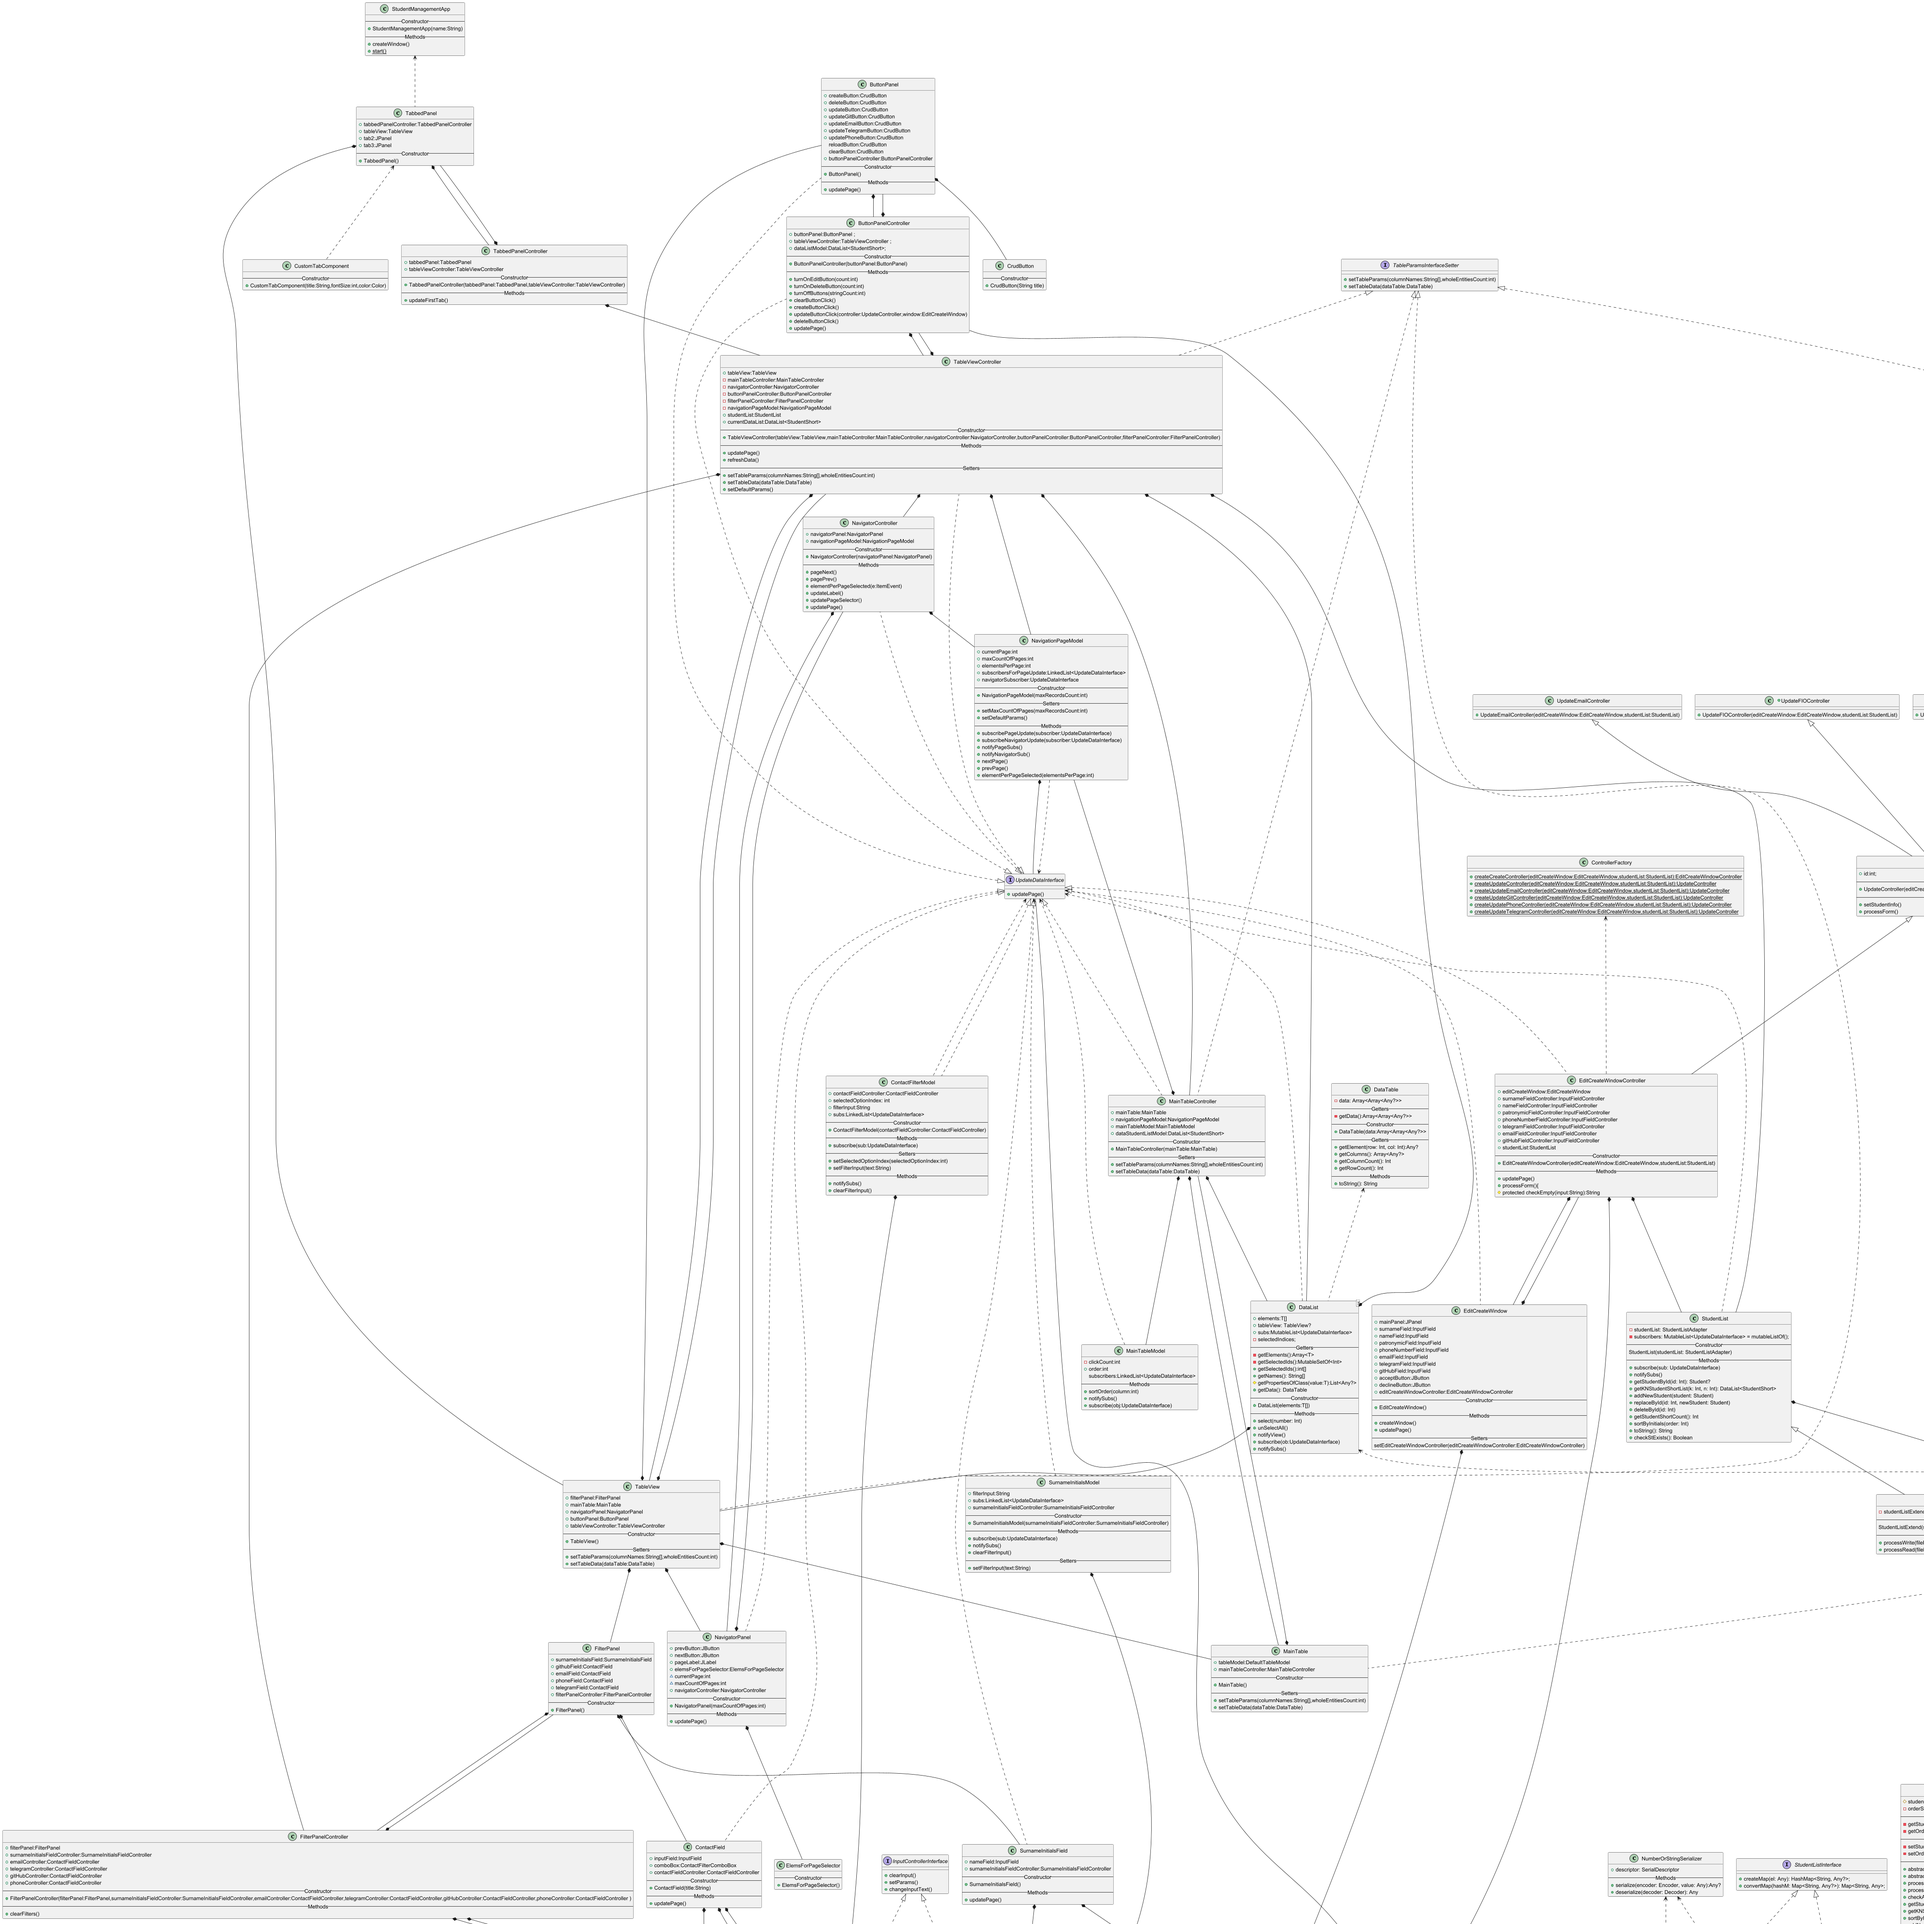
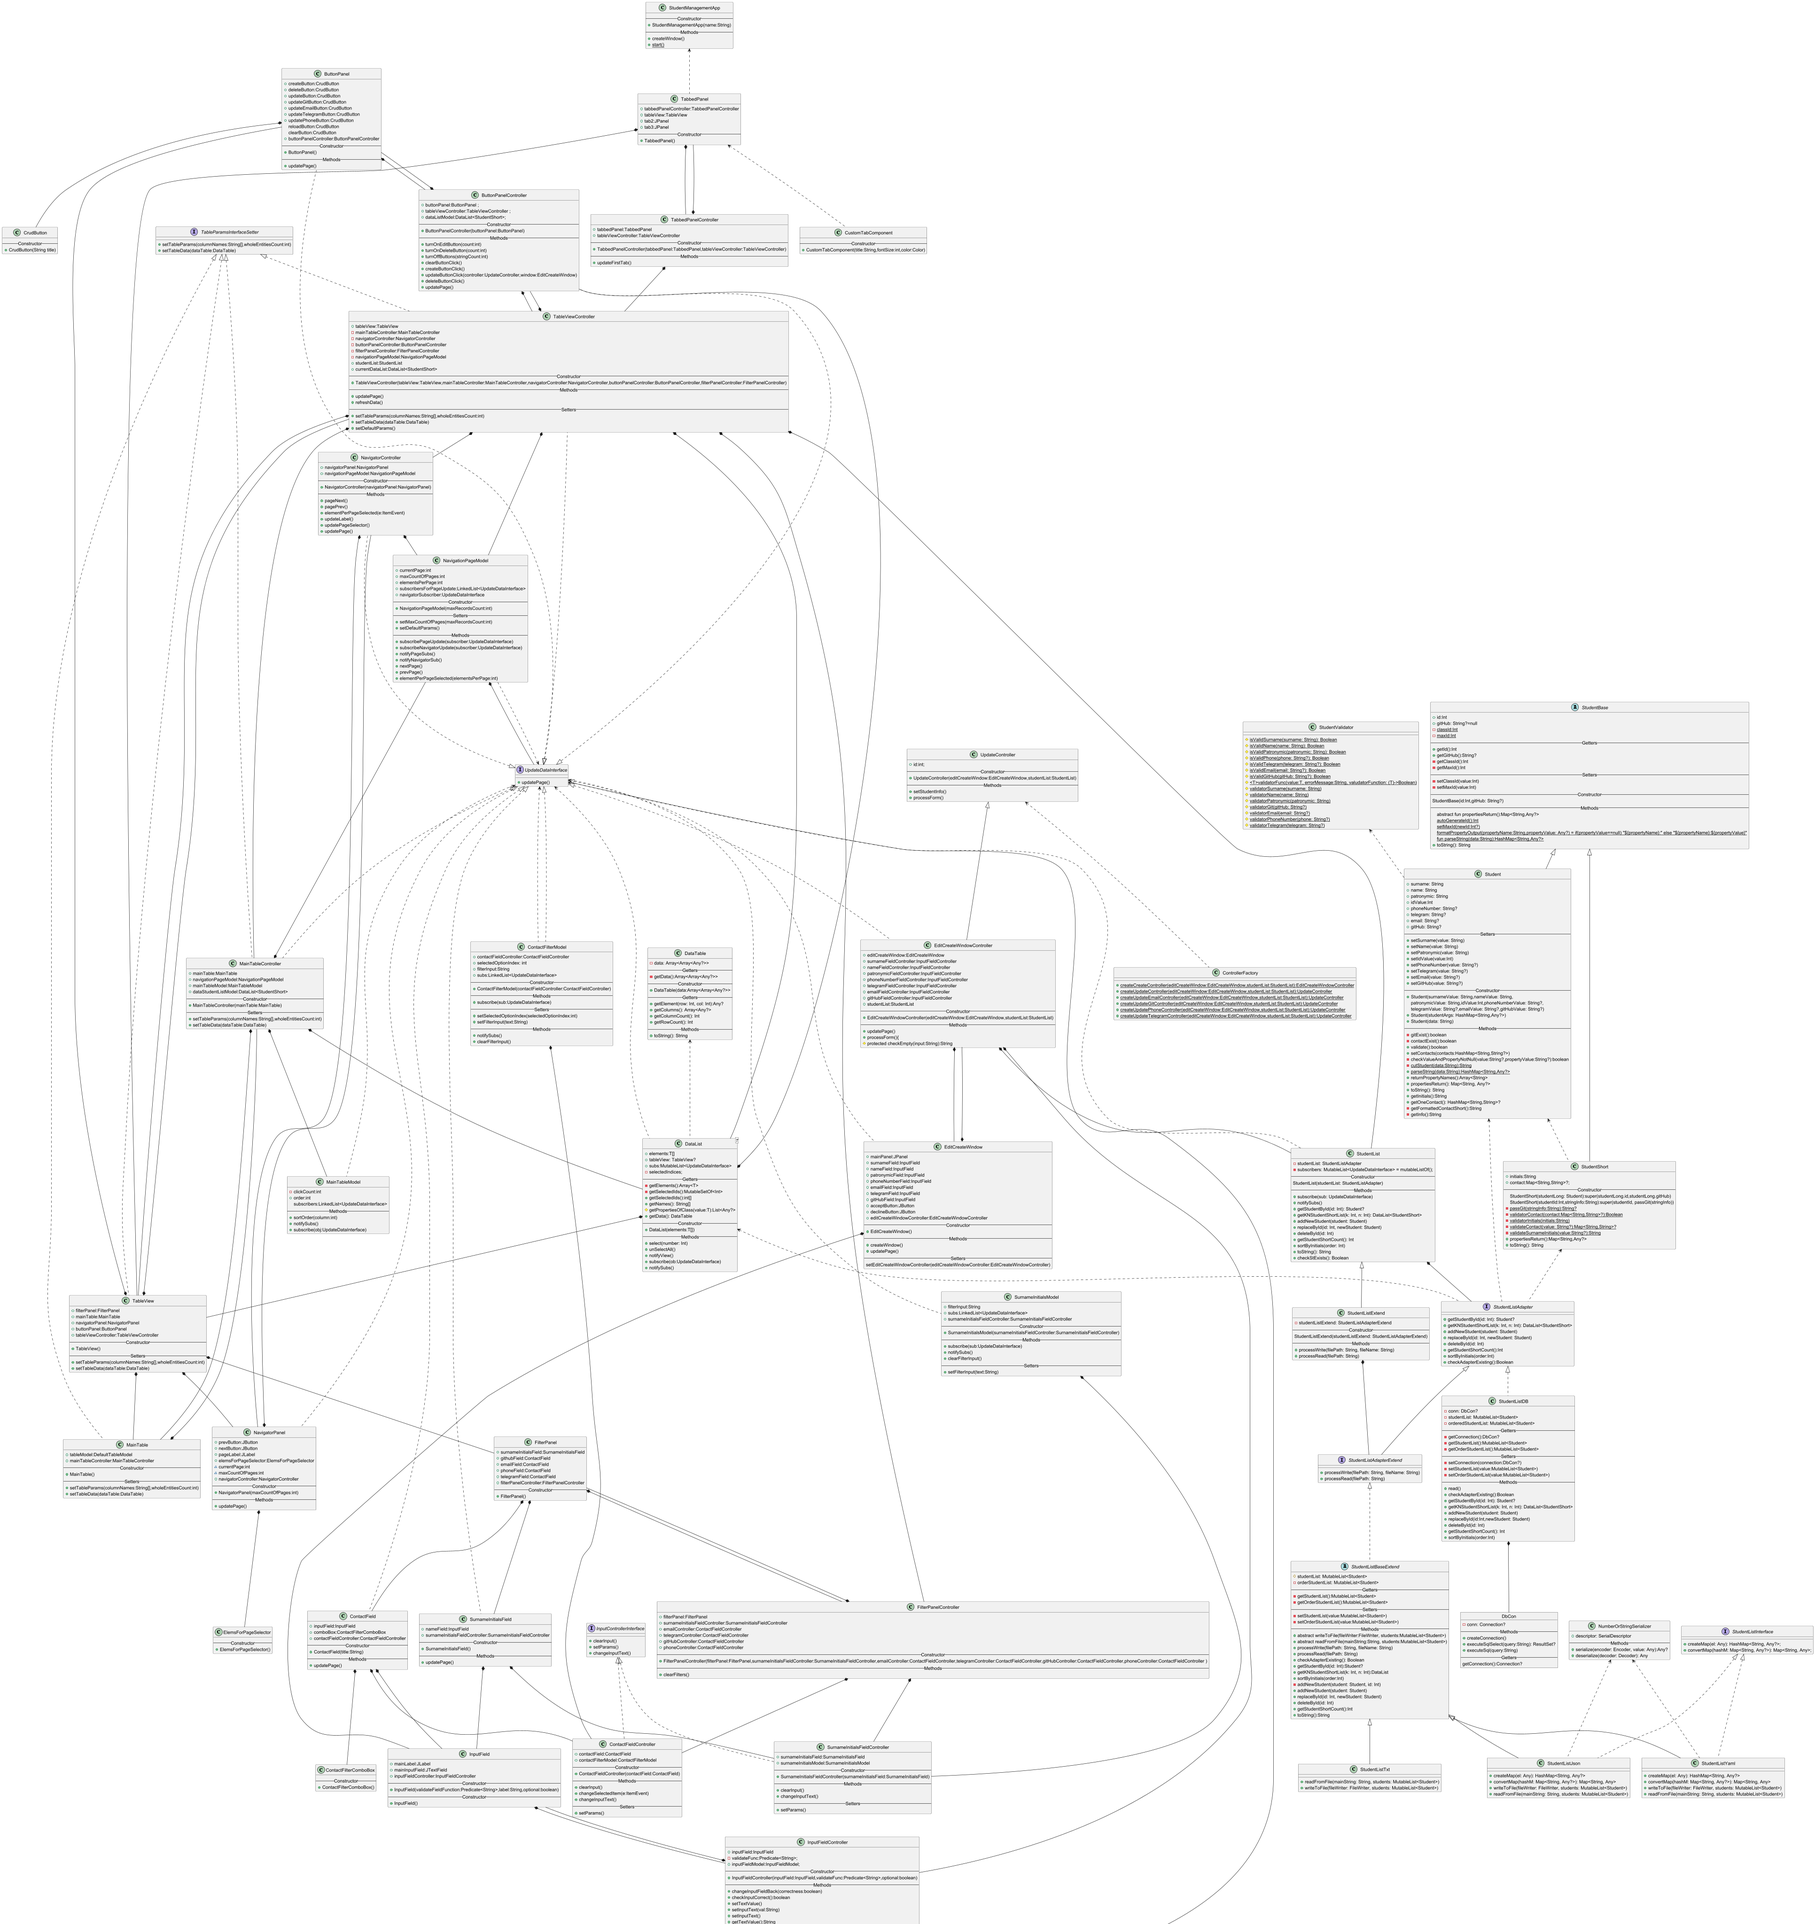
Lab 8 Поменяли фабрику окна редактирования записи

diff --git a/lab3/untitled/src/main/java/EditCreateForm/Factory/ControllerFactory.java b/lab3/untitled/src/main/java/EditCreateForm/Factory/ControllerFactory.java
@@ -8,19 +8,52 @@ public class ControllerFactory {
     public static EditCreateWindowController createCreateController(EditCreateWindow editCreateWindow, StudentList studentList){
         return new EditCreateWindowController(editCreateWindow,studentList);
     }
-    public static UpdateController createUpdateController(EditCreateWindow editCreateWindow, StudentList studentList){
-        return new UpdateFIOController(editCreateWindow,studentList);
+    public static UpdateController createUpdateFIOController(EditCreateWindow editCreateWindow, StudentList studentList){
+        UpdateController updateController = new UpdateController(editCreateWindow,studentList);
+        updateController.gitHubFieldController.changeEditable(false);
+        updateController.phoneNumberFieldController.changeEditable(false);
+        updateController.emailFieldController.changeEditable(false);
+        updateController.telegramFieldController.changeEditable(false);
+        return updateController;
     }
     public static UpdateController createUpdateEmailController(EditCreateWindow editCreateWindow, StudentList studentList){
-        return new UpdateEmailController(editCreateWindow,studentList);
+        UpdateController updateController = new UpdateController(editCreateWindow,studentList);
+        updateController.gitHubFieldController.changeEditable(false);
+        updateController.phoneNumberFieldController.changeEditable(false);
+        updateController.surnameFieldController.changeEditable(false);
+        updateController.nameFieldController.changeEditable(false);
+        updateController.patronymicFieldController.changeEditable(false);
+        updateController.telegramFieldController.changeEditable(false);
+        return updateController;
     }
     public static UpdateController createUpdateGitController(EditCreateWindow editCreateWindow, StudentList studentList){
-        return new UpdateGitController(editCreateWindow,studentList);
+        UpdateController updateController = new UpdateController(editCreateWindow,studentList);
+        updateController.surnameFieldController.changeEditable(false);
+        updateController.nameFieldController.changeEditable(false);
+        updateController.patronymicFieldController.changeEditable(false);
+        updateController.phoneNumberFieldController.changeEditable(false);
+        updateController.emailFieldController.changeEditable(false);
+        updateController.telegramFieldController.changeEditable(false);
+        return updateController;
     }
     public static UpdateController createUpdatePhoneController(EditCreateWindow editCreateWindow, StudentList studentList){
-        return new UpdatePhoneController(editCreateWindow,studentList);
+        UpdateController updateController = new UpdateController(editCreateWindow,studentList);
+        updateController.gitHubFieldController.changeEditable(false);
+        updateController.surnameFieldController.changeEditable(false);
+        updateController.nameFieldController.changeEditable(false);
+        updateController.patronymicFieldController.changeEditable(false);
+        updateController.emailFieldController.changeEditable(false);
+        updateController.telegramFieldController.changeEditable(false);
+        return updateController;
     }
     public static UpdateController createUpdateTelegramController(EditCreateWindow editCreateWindow, StudentList studentList){
-        return new UpdateTelegramController(editCreateWindow,studentList);
+        UpdateController updateController = new UpdateController(editCreateWindow,studentList);
+        updateController.gitHubFieldController.changeEditable(false);
+        updateController.phoneNumberFieldController.changeEditable(false);
+        updateController.emailFieldController.changeEditable(false);
+        updateController.surnameFieldController.changeEditable(false);
+        updateController.nameFieldController.changeEditable(false);
+        updateController.patronymicFieldController.changeEditable(false);
+        return updateController;
     }
 }

diff --git a/lab3/untitled/src/main/java/ButtonCRUDPanel/Controllers/ButtonPanelController.java b/lab3/untitled/src/main/java/ButtonCRUDPanel/Controllers/ButtonPanelController.java
@@ -2,21 +2,15 @@ package ButtonCRUDPanel.Controllers;
 
 import ButtonCRUDPanel.ButtonPanel;
 import DataListPack.DataList;
-import DataListPack.DataTable;
-import EditCreateForm.Controllers.EditCreateWindowController;
 import EditCreateForm.Controllers.UpdateController;
-import EditCreateForm.Controllers.UpdateFIOController;
 import EditCreateForm.EditCreateWindow;
 import EditCreateForm.Factory.ControllerFactory;
 import MainPack.UpdateDataInterface;
 import Student.StudentShort;
-import StudentList.StudentList;
 import TableGridPack.Controllers.TableViewController;
-import TableGridPack.Navigator.Models.NavigationPageModel;
 
 import java.awt.event.ActionEvent;
 import java.awt.event.ActionListener;
-import java.util.Arrays;
 import java.util.LinkedList;
 
 public class ButtonPanelController implements UpdateDataInterface {
@@ -41,7 +35,7 @@ public class ButtonPanelController implements UpdateDataInterface {
             @Override
             public void actionPerformed(ActionEvent e) {
                 EditCreateWindow window = new EditCreateWindow();
-                ButtonPanelController.this.updateButtonClick(ControllerFactory.createUpdateController(window,ButtonPanelController.this.tableViewController.studentList),window);
+                ButtonPanelController.this.updateButtonClick(ControllerFactory.createUpdateFIOController(window,ButtonPanelController.this.tableViewController.studentList),window);
             }
         });
 
